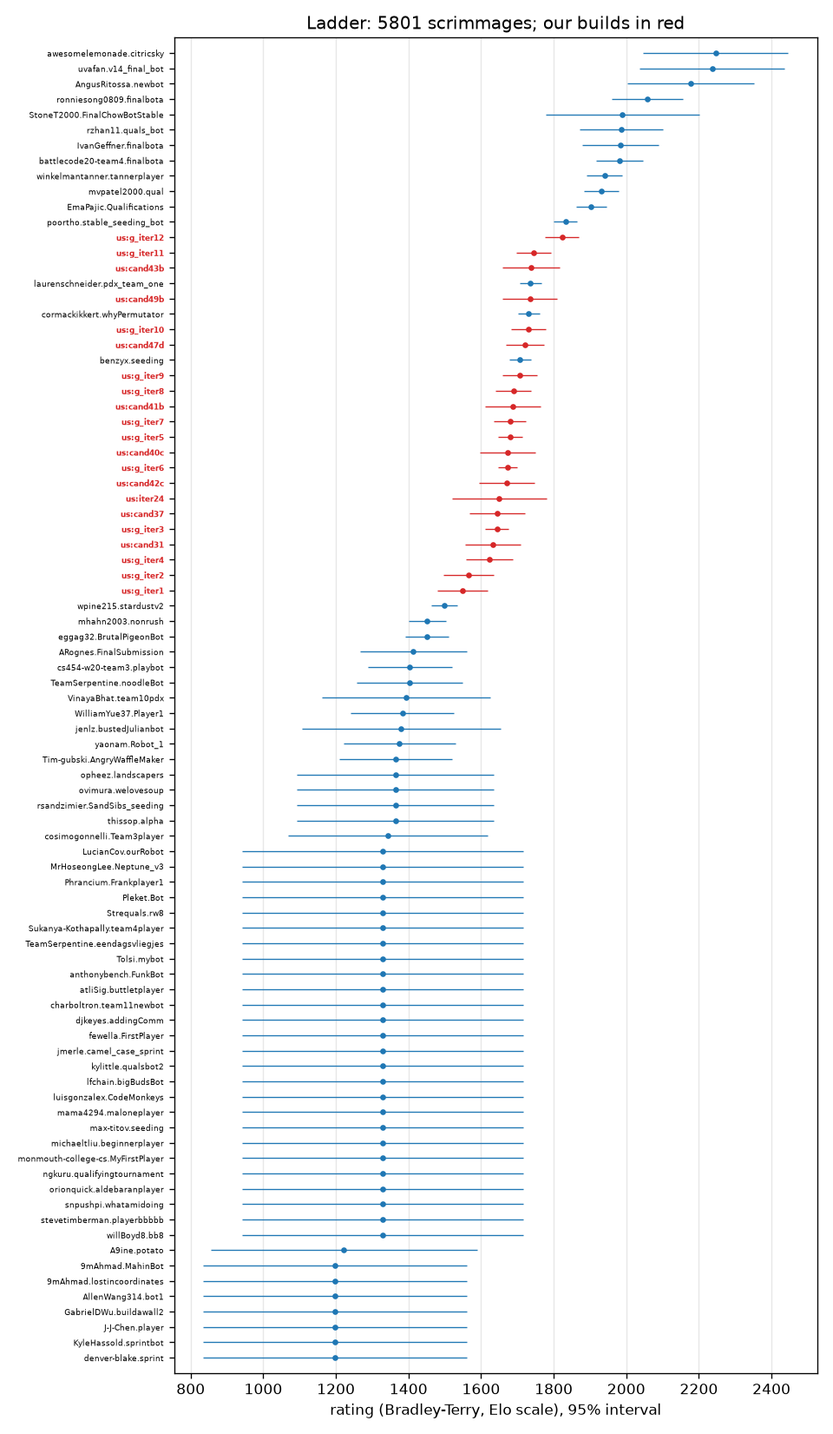
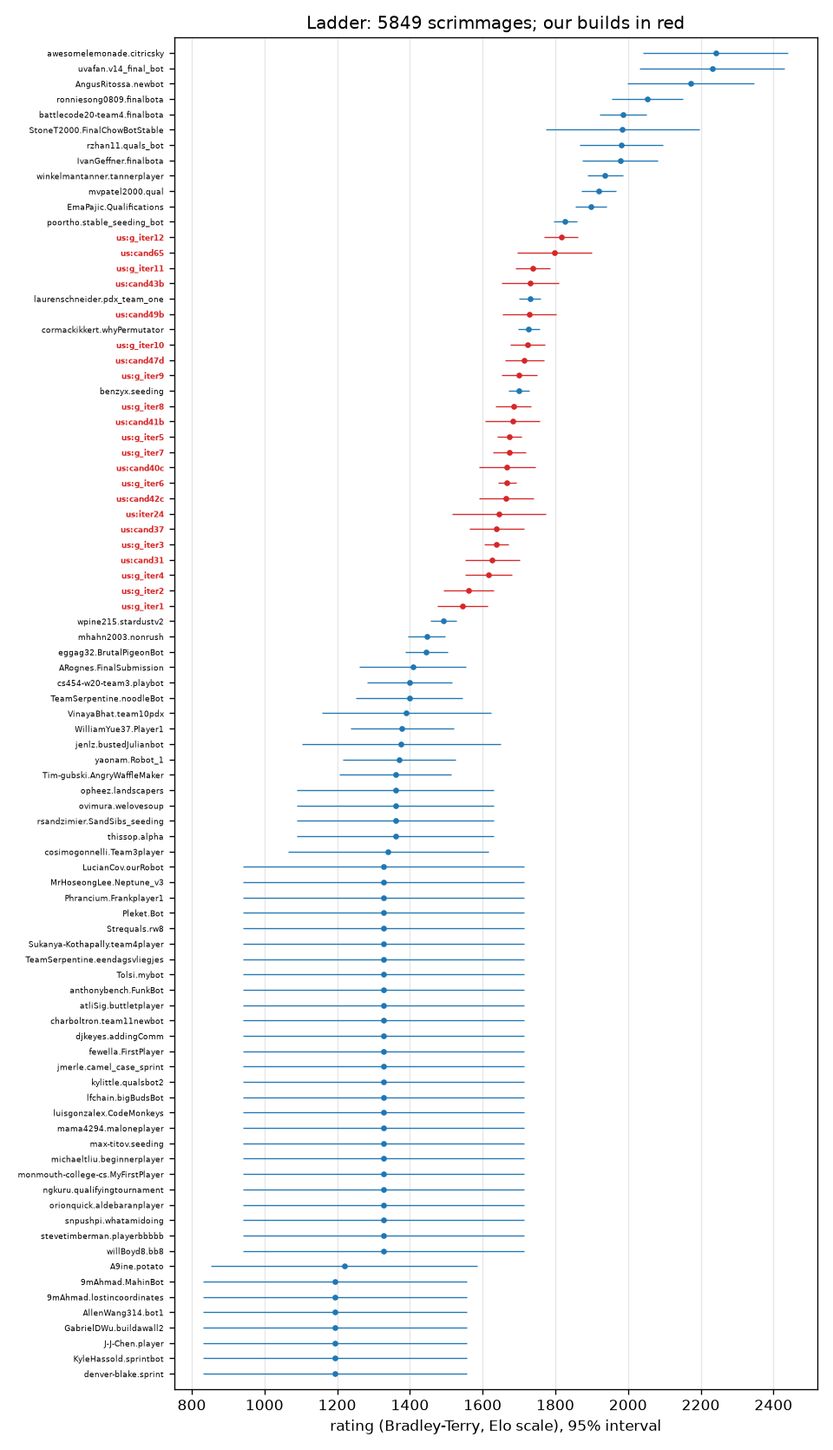
Submission block 20260926-060316-scrim-cand65 posted (cand65)
Claude-Session: https://claude.ai/code/session_015tNyF5ucwWW1mudpEQTT25

diff --git a/progress/ELO.md b/progress/ELO.md
@@ -1,118 +1,120 @@
 # Ladder
 
-5801 scrimmages (ours only), 5277 distinct (a repeated pairing with the same seed replays the same game and counts once), rated by a batch Bradley-Terry fit on the Elo scale (`tools/elolib.py`); each of our builds is its own player. 65 of 65 ladder bots met.
+5849 scrimmages (ours only), 5325 distinct (a repeated pairing with the same seed replays the same game and counts once), rated by a batch Bradley-Terry fit on the Elo scale (`tools/elolib.py`); each of our builds is its own player. 65 of 65 ladder bots met.
 
 Our builds (rating +- 95%; field score = expected score against every ladder bot, one game each):
 
 | build | rating | rank | games | record | field score |
 |---|---|---|---|---|---|
-| g_iter12 | 1823 +- 46 | 13 of 86 | 240 | 111-129 | 80.2% |
-| g_iter11 | 1744 +- 47 | 14 of 86 | 240 | 107-133 | 76.0% |
-| cand43b | 1737 +- 79 | 15 of 86 | 96 | 64-32 | 75.6% |
-| cand49b | 1734 +- 75 | 17 of 86 | 96 | 42-54 | 75.5% |
-| g_iter10 | 1731 +- 48 | 19 of 86 | 240 | 103-137 | 75.2% |
-| cand47d | 1721 +- 53 | 20 of 86 | 192 | 73-119 | 74.7% |
-| g_iter9 | 1706 +- 49 | 22 of 86 | 240 | 78-162 | 73.8% |
-| g_iter8 | 1690 +- 49 | 23 of 86 | 240 | 108-132 | 72.7% |
-| cand41b | 1688 +- 76 | 24 of 86 | 96 | 51-45 | 72.6% |
-| g_iter7 | 1680 +- 45 | 25 of 86 | 288 | 135-153 | 72.1% |
-| g_iter5 | 1679 +- 34 | 26 of 86 | 618 | 329-289 | 72.0% |
-| cand40c | 1673 +- 77 | 27 of 86 | 96 | 57-39 | 71.6% |
-| g_iter6 | 1673 +- 26 | 28 of 86 | 886 | 450-436 | 71.6% |
-| cand42c | 1671 +- 76 | 29 of 86 | 96 | 49-47 | 71.5% |
-| iter24 | 1650 +- 130 | 30 of 86 | 46 | 11-35 | 70.0% |
-| cand37 | 1645 +- 76 | 31 of 86 | 96 | 46-50 | 69.6% |
-| g_iter3 | 1644 +- 33 | 32 of 86 | 796 | 167-629 | 69.6% |
-| cand31 | 1633 +- 76 | 33 of 86 | 96 | 52-44 | 68.8% |
-| g_iter4 | 1622 +- 64 | 34 of 86 | 217 | 43-174 | 68.0% |
-| g_iter2 | 1566 +- 69 | 35 of 86 | 192 | 44-148 | 63.5% |
-| g_iter1 | 1549 +- 69 | 36 of 86 | 170 | 95-75 | 62.0% |
+| g_iter12 | 1817 +- 46 | 13 of 87 | 240 | 111-129 | 80.1% |
+| cand65 | 1798 +- 102 | 14 of 87 | 48 | 22-26 | 79.2% |
+| g_iter11 | 1738 +- 47 | 15 of 87 | 240 | 107-133 | 75.9% |
+| cand43b | 1732 +- 79 | 16 of 87 | 96 | 64-32 | 75.5% |
+| cand49b | 1728 +- 75 | 18 of 87 | 96 | 42-54 | 75.3% |
+| g_iter10 | 1724 +- 48 | 20 of 87 | 240 | 103-137 | 75.1% |
+| cand47d | 1715 +- 53 | 21 of 87 | 192 | 73-119 | 74.5% |
+| g_iter9 | 1701 +- 49 | 22 of 87 | 240 | 78-162 | 73.7% |
+| g_iter8 | 1684 +- 49 | 24 of 87 | 240 | 108-132 | 72.6% |
+| cand41b | 1682 +- 76 | 25 of 87 | 96 | 51-45 | 72.5% |
+| g_iter5 | 1674 +- 34 | 26 of 87 | 618 | 329-289 | 72.0% |
+| g_iter7 | 1674 +- 44 | 27 of 87 | 288 | 135-153 | 71.9% |
+| cand40c | 1667 +- 77 | 28 of 87 | 96 | 57-39 | 71.5% |
+| g_iter6 | 1667 +- 26 | 29 of 87 | 886 | 450-436 | 71.5% |
+| cand42c | 1665 +- 76 | 30 of 87 | 96 | 49-47 | 71.3% |
+| iter24 | 1645 +- 130 | 31 of 87 | 46 | 11-35 | 69.9% |
+| cand37 | 1639 +- 76 | 32 of 87 | 96 | 46-50 | 69.5% |
+| g_iter3 | 1638 +- 33 | 33 of 87 | 796 | 167-629 | 69.4% |
+| cand31 | 1627 +- 76 | 34 of 87 | 96 | 52-44 | 68.6% |
+| g_iter4 | 1617 +- 64 | 35 of 87 | 217 | 43-174 | 67.9% |
+| g_iter2 | 1561 +- 69 | 36 of 87 | 192 | 44-148 | 63.3% |
+| g_iter1 | 1545 +- 69 | 37 of 87 | 170 | 95-75 | 62.0% |
 
 | rank | player | rating | +- 95% | games | W-L |
 |---|---|---|---|---|---|
-| 1 | awesomelemonade.citricsky | 2246 | 200 | 103 | 101-2 |
-| 2 | uvafan.v14_final_bot | 2237 | 200 | 98 | 96-2 |
-| 3 | AngusRitossa.newbot | 2178 | 174 | 95 | 92-3 |
-| 4 | ronniesong0809.finalbota | 2059 | 98 | 127 | 114-13 |
-| 5 | StoneT2000.FinalChowBotStable | 1990 | 211 | 21 | 19-2 |
-| 6 | rzhan11.quals_bot | 1987 | 115 | 86 | 77-9 |
-| 7 | IvanGeffner.finalbota | 1983 | 105 | 101 | 90-11 |
-| 8 | battlecode20-team4.finalbota | 1981 | 65 | 226 | 195-31 |
-| 9 | winkelmantanner.tannerplayer | 1940 | 49 | 308 | 246-62 |
-| 10 | mvpatel2000.qual | 1931 | 49 | 295 | 233-62 |
-| 11 | EmaPajic.Qualifications | 1904 | 43 | 359 | 275-84 |
-| 12 | poortho.stable_seeding_bot | 1833 | 32 | 527 | 366-161 |
-| 13 | **us:g_iter12** | 1823 | 46 | 240 | 111-129 |
-| 14 | **us:g_iter11** | 1744 | 47 | 240 | 107-133 |
-| 15 | **us:cand43b** | 1737 | 79 | 96 | 64-32 |
-| 16 | laurenschneider.pdx_team_one | 1736 | 30 | 542 | 308-234 |
-| 17 | **us:cand49b** | 1734 | 75 | 96 | 42-54 |
-| 18 | cormackikkert.whyPermutator | 1731 | 30 | 535 | 300-235 |
-| 19 | **us:g_iter10** | 1731 | 48 | 240 | 103-137 |
-| 20 | **us:cand47d** | 1721 | 53 | 192 | 73-119 |
-| 21 | benzyx.seeding | 1707 | 30 | 538 | 284-254 |
-| 22 | **us:g_iter9** | 1706 | 49 | 240 | 78-162 |
-| 23 | **us:g_iter8** | 1690 | 49 | 240 | 108-132 |
-| 24 | **us:cand41b** | 1688 | 76 | 96 | 51-45 |
-| 25 | **us:g_iter7** | 1680 | 45 | 288 | 135-153 |
-| 26 | **us:g_iter5** | 1679 | 34 | 618 | 329-289 |
-| 27 | **us:cand40c** | 1673 | 77 | 96 | 57-39 |
-| 28 | **us:g_iter6** | 1673 | 26 | 886 | 450-436 |
-| 29 | **us:cand42c** | 1671 | 76 | 96 | 49-47 |
-| 30 | **us:iter24** | 1650 | 130 | 46 | 11-35 |
-| 31 | **us:cand37** | 1645 | 76 | 96 | 46-50 |
-| 32 | **us:g_iter3** | 1644 | 33 | 796 | 167-629 |
-| 33 | **us:cand31** | 1633 | 76 | 96 | 52-44 |
-| 34 | **us:g_iter4** | 1622 | 64 | 217 | 43-174 |
-| 35 | **us:g_iter2** | 1566 | 69 | 192 | 44-148 |
-| 36 | **us:g_iter1** | 1549 | 69 | 170 | 95-75 |
-| 37 | wpine215.stardustv2 | 1498 | 36 | 461 | 122-339 |
-| 38 | mhahn2003.nonrush | 1451 | 52 | 250 | 56-194 |
-| 39 | eggag32.BrutalPigeonBot | 1451 | 59 | 194 | 42-152 |
-| 40 | ARognes.FinalSubmission | 1413 | 147 | 31 | 6-25 |
-| 41 | cs454-w20-team3.playbot | 1404 | 117 | 50 | 10-40 |
-| 42 | TeamSerpentine.noodleBot | 1403 | 146 | 32 | 6-26 |
-| 43 | VinayaBhat.team10pdx | 1394 | 233 | 9 | 2-7 |
-| 44 | WilliamYue37.Player1 | 1383 | 142 | 40 | 6-34 |
-| 45 | jenlz.bustedJulianbot | 1380 | 274 | 8 | 1-7 |
-| 46 | yaonam.Robot_1 | 1375 | 155 | 33 | 5-28 |
-| 47 | Tim-gubski.AngryWaffleMaker | 1365 | 155 | 32 | 5-27 |
-| 48 | opheez.landscapers | 1364 | 271 | 9 | 1-8 |
-| 49 | ovimura.welovesoup | 1364 | 271 | 9 | 1-8 |
-| 50 | rsandzimier.SandSibs_seeding | 1364 | 271 | 9 | 1-8 |
-| 51 | thissop.alpha | 1364 | 271 | 9 | 1-8 |
-| 52 | cosimogonnelli.Team3player | 1343 | 275 | 7 | 1-6 |
-| 53 | LucianCov.ourRobot | 1329 | 387 | 3 | 0-3 |
-| 54 | MrHoseongLee.Neptune_v3 | 1329 | 387 | 3 | 0-3 |
-| 55 | Phrancium.Frankplayer1 | 1329 | 387 | 3 | 0-3 |
-| 56 | Pleket.Bot | 1329 | 387 | 3 | 0-3 |
-| 57 | Strequals.rw8 | 1329 | 387 | 3 | 0-3 |
-| 58 | Sukanya-Kothapally.team4player | 1329 | 387 | 3 | 0-3 |
-| 59 | TeamSerpentine.eendagsvliegjes | 1329 | 387 | 3 | 0-3 |
-| 60 | Tolsi.mybot | 1329 | 387 | 3 | 0-3 |
-| 61 | anthonybench.FunkBot | 1329 | 387 | 3 | 0-3 |
-| 62 | atliSig.buttletplayer | 1329 | 387 | 3 | 0-3 |
-| 63 | charboltron.team11newbot | 1329 | 387 | 3 | 0-3 |
-| 64 | djkeyes.addingComm | 1329 | 387 | 3 | 0-3 |
-| 65 | fewella.FirstPlayer | 1329 | 387 | 3 | 0-3 |
-| 66 | jmerle.camel_case_sprint | 1329 | 387 | 3 | 0-3 |
-| 67 | kylittle.qualsbot2 | 1329 | 387 | 3 | 0-3 |
-| 68 | lfchain.bigBudsBot | 1329 | 387 | 3 | 0-3 |
-| 69 | luisgonzalex.CodeMonkeys | 1329 | 387 | 3 | 0-3 |
-| 70 | mama4294.maloneplayer | 1329 | 387 | 3 | 0-3 |
-| 71 | max-titov.seeding | 1329 | 387 | 3 | 0-3 |
-| 72 | michaeltliu.beginnerplayer | 1329 | 387 | 3 | 0-3 |
-| 73 | monmouth-college-cs.MyFirstPlayer | 1329 | 387 | 3 | 0-3 |
-| 74 | ngkuru.qualifyingtournament | 1329 | 387 | 3 | 0-3 |
-| 75 | orionquick.aldebaranplayer | 1329 | 387 | 3 | 0-3 |
-| 76 | snpushpi.whatamidoing | 1329 | 387 | 3 | 0-3 |
-| 77 | stevetimberman.playerbbbbb | 1329 | 387 | 3 | 0-3 |
-| 78 | willBoyd8.bb8 | 1329 | 387 | 3 | 0-3 |
-| 79 | A9ine.potato | 1222 | 366 | 6 | 0-6 |
-| 80 | 9mAhmad.MahinBot | 1198 | 363 | 7 | 0-7 |
-| 81 | 9mAhmad.lostincoordinates | 1198 | 363 | 7 | 0-7 |
-| 82 | AllenWang314.bot1 | 1198 | 363 | 7 | 0-7 |
-| 83 | GabrielDWu.buildawall2 | 1198 | 363 | 7 | 0-7 |
-| 84 | J-J-Chen.player | 1198 | 363 | 7 | 0-7 |
-| 85 | KyleHassold.sprintbot | 1198 | 363 | 7 | 0-7 |
-| 86 | denver-blake.sprint | 1198 | 363 | 7 | 0-7 |
+| 1 | awesomelemonade.citricsky | 2241 | 200 | 103 | 101-2 |
+| 2 | uvafan.v14_final_bot | 2232 | 200 | 98 | 96-2 |
+| 3 | AngusRitossa.newbot | 2172 | 174 | 95 | 92-3 |
+| 4 | ronniesong0809.finalbota | 2053 | 98 | 127 | 114-13 |
+| 5 | battlecode20-team4.finalbota | 1986 | 65 | 232 | 201-31 |
+| 6 | StoneT2000.FinalChowBotStable | 1985 | 211 | 21 | 19-2 |
+| 7 | rzhan11.quals_bot | 1981 | 115 | 86 | 77-9 |
+| 8 | IvanGeffner.finalbota | 1978 | 105 | 101 | 90-11 |
+| 9 | winkelmantanner.tannerplayer | 1937 | 48 | 314 | 251-63 |
+| 10 | mvpatel2000.qual | 1918 | 48 | 301 | 235-66 |
+| 11 | EmaPajic.Qualifications | 1898 | 42 | 365 | 279-86 |
+| 12 | poortho.stable_seeding_bot | 1827 | 32 | 533 | 369-164 |
+| 13 | **us:g_iter12** | 1817 | 46 | 240 | 111-129 |
+| 14 | **us:cand65** | 1798 | 102 | 48 | 22-26 |
+| 15 | **us:g_iter11** | 1738 | 47 | 240 | 107-133 |
+| 16 | **us:cand43b** | 1732 | 79 | 96 | 64-32 |
+| 17 | laurenschneider.pdx_team_one | 1730 | 30 | 548 | 310-238 |
+| 18 | **us:cand49b** | 1728 | 75 | 96 | 42-54 |
+| 19 | cormackikkert.whyPermutator | 1726 | 30 | 541 | 303-238 |
+| 20 | **us:g_iter10** | 1724 | 48 | 240 | 103-137 |
+| 21 | **us:cand47d** | 1715 | 53 | 192 | 73-119 |
+| 22 | **us:g_iter9** | 1701 | 49 | 240 | 78-162 |
+| 23 | benzyx.seeding | 1700 | 29 | 544 | 285-259 |
+| 24 | **us:g_iter8** | 1684 | 49 | 240 | 108-132 |
+| 25 | **us:cand41b** | 1682 | 76 | 96 | 51-45 |
+| 26 | **us:g_iter5** | 1674 | 34 | 618 | 329-289 |
+| 27 | **us:g_iter7** | 1674 | 44 | 288 | 135-153 |
+| 28 | **us:cand40c** | 1667 | 77 | 96 | 57-39 |
+| 29 | **us:g_iter6** | 1667 | 26 | 886 | 450-436 |
+| 30 | **us:cand42c** | 1665 | 76 | 96 | 49-47 |
+| 31 | **us:iter24** | 1645 | 130 | 46 | 11-35 |
+| 32 | **us:cand37** | 1639 | 76 | 96 | 46-50 |
+| 33 | **us:g_iter3** | 1638 | 33 | 796 | 167-629 |
+| 34 | **us:cand31** | 1627 | 76 | 96 | 52-44 |
+| 35 | **us:g_iter4** | 1617 | 64 | 217 | 43-174 |
+| 36 | **us:g_iter2** | 1561 | 69 | 192 | 44-148 |
+| 37 | **us:g_iter1** | 1545 | 69 | 170 | 95-75 |
+| 38 | wpine215.stardustv2 | 1493 | 36 | 461 | 122-339 |
+| 39 | mhahn2003.nonrush | 1446 | 52 | 250 | 56-194 |
+| 40 | eggag32.BrutalPigeonBot | 1445 | 59 | 194 | 42-152 |
+| 41 | ARognes.FinalSubmission | 1408 | 147 | 31 | 6-25 |
+| 42 | cs454-w20-team3.playbot | 1399 | 117 | 50 | 10-40 |
+| 43 | TeamSerpentine.noodleBot | 1398 | 146 | 32 | 6-26 |
+| 44 | VinayaBhat.team10pdx | 1390 | 232 | 9 | 2-7 |
+| 45 | WilliamYue37.Player1 | 1378 | 142 | 40 | 6-34 |
+| 46 | jenlz.bustedJulianbot | 1376 | 274 | 8 | 1-7 |
+| 47 | yaonam.Robot_1 | 1371 | 155 | 33 | 5-28 |
+| 48 | Tim-gubski.AngryWaffleMaker | 1360 | 155 | 32 | 5-27 |
+| 49 | opheez.landscapers | 1360 | 270 | 9 | 1-8 |
+| 50 | ovimura.welovesoup | 1360 | 270 | 9 | 1-8 |
+| 51 | rsandzimier.SandSibs_seeding | 1360 | 270 | 9 | 1-8 |
+| 52 | thissop.alpha | 1360 | 270 | 9 | 1-8 |
+| 53 | cosimogonnelli.Team3player | 1340 | 275 | 7 | 1-6 |
+| 54 | LucianCov.ourRobot | 1327 | 386 | 3 | 0-3 |
+| 55 | MrHoseongLee.Neptune_v3 | 1327 | 386 | 3 | 0-3 |
+| 56 | Phrancium.Frankplayer1 | 1327 | 386 | 3 | 0-3 |
+| 57 | Pleket.Bot | 1327 | 386 | 3 | 0-3 |
+| 58 | Strequals.rw8 | 1327 | 386 | 3 | 0-3 |
+| 59 | Sukanya-Kothapally.team4player | 1327 | 386 | 3 | 0-3 |
+| 60 | TeamSerpentine.eendagsvliegjes | 1327 | 386 | 3 | 0-3 |
+| 61 | Tolsi.mybot | 1327 | 386 | 3 | 0-3 |
+| 62 | anthonybench.FunkBot | 1327 | 386 | 3 | 0-3 |
+| 63 | atliSig.buttletplayer | 1327 | 386 | 3 | 0-3 |
+| 64 | charboltron.team11newbot | 1327 | 386 | 3 | 0-3 |
+| 65 | djkeyes.addingComm | 1327 | 386 | 3 | 0-3 |
+| 66 | fewella.FirstPlayer | 1327 | 386 | 3 | 0-3 |
+| 67 | jmerle.camel_case_sprint | 1327 | 386 | 3 | 0-3 |
+| 68 | kylittle.qualsbot2 | 1327 | 386 | 3 | 0-3 |
+| 69 | lfchain.bigBudsBot | 1327 | 386 | 3 | 0-3 |
+| 70 | luisgonzalex.CodeMonkeys | 1327 | 386 | 3 | 0-3 |
+| 71 | mama4294.maloneplayer | 1327 | 386 | 3 | 0-3 |
+| 72 | max-titov.seeding | 1327 | 386 | 3 | 0-3 |
+| 73 | michaeltliu.beginnerplayer | 1327 | 386 | 3 | 0-3 |
+| 74 | monmouth-college-cs.MyFirstPlayer | 1327 | 386 | 3 | 0-3 |
+| 75 | ngkuru.qualifyingtournament | 1327 | 386 | 3 | 0-3 |
+| 76 | orionquick.aldebaranplayer | 1327 | 386 | 3 | 0-3 |
+| 77 | snpushpi.whatamidoing | 1327 | 386 | 3 | 0-3 |
+| 78 | stevetimberman.playerbbbbb | 1327 | 386 | 3 | 0-3 |
+| 79 | willBoyd8.bb8 | 1327 | 386 | 3 | 0-3 |
+| 80 | A9ine.potato | 1219 | 366 | 6 | 0-6 |
+| 81 | 9mAhmad.MahinBot | 1195 | 363 | 7 | 0-7 |
+| 82 | 9mAhmad.lostincoordinates | 1195 | 363 | 7 | 0-7 |
+| 83 | AllenWang314.bot1 | 1195 | 363 | 7 | 0-7 |
+| 84 | GabrielDWu.buildawall2 | 1195 | 363 | 7 | 0-7 |
+| 85 | J-J-Chen.player | 1195 | 363 | 7 | 0-7 |
+| 86 | KyleHassold.sprintbot | 1195 | 363 | 7 | 0-7 |
+| 87 | denver-blake.sprint | 1195 | 363 | 7 | 0-7 |

diff --git a/progress/ONSET.md b/progress/ONSET.md
@@ -1,6 +1,6 @@
 # Which metric starts predicting the result first
 
-41 games, 25 wins. Noise floor about 0.31; a correlation inside that band is not evidence.
+39 games, 21 wins. Noise floor about 0.32; a correlation inside that band is not evidence.
 
 Every metric is oriented so **higher is better for us**, so a positive correlation always means
 "this being better goes with winning". `~avg` is the running mean over all rounds so far rather than
@@ -12,46 +12,46 @@ See `progress/METRICS.md` for how each quantity is computed.
 
 | onset | anti | metric | peak corr | r100 | r200 | r300 | r400 | r600 | r900 |
 |---|---|---|---|---|---|---|---|---|---|
-| r150 | - | died (us-them) [inverted] | +0.40 | +0.16 | +0.29 | +0.17 | +0.16 | +0.19 | +0.32 |
-| r150 | - | died (us-them) [inverted] ~avg | +0.37 | +0.12 | +0.32 | +0.31 | +0.24 | +0.19 | +0.35 |
-| r150 | - | landscapers (us-them) | +0.72 | +0.09 | +0.35 | +0.13 | +0.11 | +0.37 | +0.66 |
-| r150 | - | landscapers (us-them) ~avg | +0.69 | +0.09 | +0.35 | +0.22 | +0.18 | +0.27 | +0.47 |
-| r150 | - | pickups (us-them) | +0.42 | +0.13 | +0.38 | +0.32 | +0.22 | +0.22 | +0.39 |
-| r150 | - | pickups (us-them) ~avg | +0.44 | +0.13 | +0.39 | +0.39 | +0.34 | +0.24 | +0.44 |
-| r150 | - | robots (us-them) | +0.68 | +0.21 | +0.39 | +0.34 | +0.34 | +0.40 | +0.53 |
-| r150 | - | robots (us-them) ~avg | +0.65 | +0.16 | +0.35 | +0.37 | +0.37 | +0.41 | +0.52 |
-| r150 | - | units (us-them) | +0.62 | +0.22 | +0.40 | +0.24 | +0.24 | +0.35 | +0.49 |
-| r150 | - | units (us-them) ~avg | +0.60 | +0.15 | +0.36 | +0.33 | +0.31 | +0.35 | +0.49 |
-| r150 | - | worth (us-them) | +0.64 | +0.18 | +0.44 | +0.39 | +0.38 | +0.38 | +0.44 |
-| r150 | - | worth (us-them) ~avg | +0.63 | +0.23 | +0.39 | +0.39 | +0.41 | +0.41 | +0.46 |
-| r200 | - | digs (us-them) | +0.72 | +0.28 | +0.33 | +0.32 | +0.34 | +0.35 | +0.47 |
-| r200 | - | digs (us-them) ~avg | +0.56 | +0.28 | +0.30 | +0.30 | +0.33 | +0.34 | +0.42 |
-| r200 | - | mines (us-them) | +0.35 | +0.20 | +0.31 | +0.33 | +0.32 | +0.26 | +0.30 |
-| r200 | - | mines (us-them) ~avg | +0.33 | +0.24 | +0.31 | +0.30 | +0.33 | +0.32 | +0.33 |
-| r300 | - | drones (us-them) | +0.32 | +0.24 | +0.24 | +0.32 | +0.28 | +0.03 | +0.06 |
-| r300 | - | drones (us-them) ~avg | +0.32 | +0.24 | +0.27 | +0.32 | +0.32 | +0.21 | +0.17 |
-| r300 | - | vaporators (us-them) | +0.55 | -0.03 | +0.13 | +0.33 | +0.38 | +0.31 | +0.40 |
-| r400 | - | vaporators (us-them) ~avg | +0.57 | -0.03 | +0.02 | +0.21 | +0.32 | +0.34 | +0.38 |
-| r450 | - | spawned (us-them) | +0.61 | +0.20 | +0.27 | +0.26 | +0.29 | +0.34 | +0.46 |
-| r450 | - | spawned (us-them) ~avg | +0.56 | +0.15 | +0.27 | +0.26 | +0.28 | +0.34 | +0.41 |
-| r550 | - | netguns (us-them) | +0.51 | . | -0.10 | -0.07 | +0.05 | +0.38 | +0.50 |
-| r600 | - | dirtDeps (us-them) | +0.71 | +0.02 | +0.19 | +0.22 | +0.28 | +0.32 | +0.45 |
-| r700 | - | dirtDeps (us-them) ~avg | +0.54 | +0.02 | +0.13 | +0.15 | +0.23 | +0.28 | +0.38 |
-| r750 | - | netguns (us-them) ~avg | +0.41 | . | -0.10 | -0.14 | -0.04 | +0.17 | +0.38 |
-| r900 | - | moves (us-them) | +0.43 | +0.12 | +0.08 | +0.14 | +0.07 | +0.14 | +0.30 |
-| r1100 | - | moves (us-them) ~avg | +0.33 | +0.06 | +0.09 | +0.17 | +0.12 | +0.12 | +0.23 |
-| - | r850 | aba (us-them) [inverted] | -0.52 | +0.04 | +0.22 | +0.13 | -0.08 | -0.17 | -0.39 |
-| - | r1000 | aba (us-them) [inverted] ~avg | -0.41 | +0.07 | +0.21 | +0.17 | +0.02 | -0.09 | -0.25 |
-| - | - | cov (us-them) | -0.28 | -0.23 | -0.28 | -0.16 | -0.09 | +0.11 | +0.12 |
-| - | r200 | cov (us-them) ~avg | -0.31 | -0.26 | -0.31 | -0.28 | -0.21 | -0.06 | +0.05 |
+| r50 | - | aba (us-them) [inverted] ~avg | +0.30 | +0.25 | +0.03 | +0.04 | +0.01 | -0.08 | -0.00 |
+| r50 | - | units (us-them) | +0.46 | +0.32 | +0.29 | +0.29 | +0.35 | +0.39 | +0.16 |
+| r50 | - | units (us-them) ~avg | +0.47 | +0.35 | +0.36 | +0.37 | +0.39 | +0.46 | +0.43 |
+| r100 | - | digs (us-them) ~avg | +0.31 | +0.31 | +0.15 | +0.16 | +0.14 | +0.19 | +0.30 |
+| r100 | - | hqBuried (us-them) [inverted] | +0.34 | +0.34 | -0.01 | +0.23 | . | . | . |
+| r100 | - | hqBuried (us-them) [inverted] ~avg | +0.34 | +0.34 | -0.08 | -0.01 | -0.20 | -0.20 | -0.19 |
+| r100 | - | landscapers (us-them) | +0.44 | +0.44 | +0.34 | +0.18 | +0.23 | +0.36 | +0.13 |
+| r100 | - | landscapers (us-them) ~avg | +0.51 | +0.47 | +0.32 | +0.33 | +0.31 | +0.43 | +0.42 |
+| r100 | - | robots (us-them) ~avg | +0.49 | +0.32 | +0.40 | +0.44 | +0.46 | +0.49 | +0.40 |
+| r100 | - | spawned (us-them) ~avg | +0.52 | +0.32 | +0.40 | +0.44 | +0.47 | +0.52 | +0.43 |
+| r150 | - | worth (us-them) | +0.49 | +0.21 | +0.47 | +0.48 | +0.39 | +0.28 | +0.23 |
+| r150 | - | worth (us-them) ~avg | +0.50 | +0.19 | +0.46 | +0.50 | +0.48 | +0.42 | +0.32 |
+| r200 | - | mines (us-them) | +0.46 | +0.23 | +0.41 | +0.45 | +0.36 | +0.29 | +0.23 |
+| r200 | - | mines (us-them) ~avg | +0.47 | +0.22 | +0.39 | +0.47 | +0.46 | +0.42 | +0.36 |
+| r200 | - | robots (us-them) | +0.47 | +0.30 | +0.37 | +0.42 | +0.44 | +0.38 | +0.23 |
+| r200 | - | spawned (us-them) | +0.49 | +0.30 | +0.36 | +0.42 | +0.47 | +0.40 | +0.26 |
+| r350 | - | pickups (us-them) ~avg | +0.32 | -0.13 | +0.26 | +0.24 | +0.31 | +0.27 | +0.26 |
+| r800 | - | digs (us-them) | +0.32 | +0.31 | +0.15 | +0.12 | +0.11 | +0.23 | +0.32 |
+| r900 | - | dirtDeps (us-them) | +0.30 | +0.29 | +0.12 | +0.10 | +0.10 | +0.21 | +0.30 |
+| r950 | - | aba (us-them) [inverted] | +0.33 | +0.22 | -0.02 | -0.02 | -0.03 | -0.16 | +0.14 |
+| r1150 | - | pickups (us-them) | +0.31 | -0.13 | +0.21 | +0.17 | +0.20 | +0.24 | +0.29 |
+| - | - | cov (us-them) | +0.17 | +0.04 | +0.12 | +0.04 | +0.06 | +0.17 | +0.10 |
+| - | - | cov (us-them) ~avg | +0.17 | +0.02 | -0.02 | -0.04 | +0.03 | +0.09 | +0.11 |
+| - | - | died (us-them) [inverted] | +0.22 | +0.01 | +0.10 | +0.02 | -0.06 | -0.09 | -0.05 |
+| - | - | died (us-them) [inverted] ~avg | -0.15 | +0.01 | +0.12 | +0.04 | +0.02 | -0.06 | -0.09 |
+| - | - | dirtDeps (us-them) ~avg | +0.29 | +0.29 | +0.13 | +0.14 | +0.14 | +0.18 | +0.29 |
+| - | - | drones (us-them) | +0.28 | +0.01 | +0.17 | +0.28 | +0.03 | +0.04 | -0.02 |
+| - | - | drones (us-them) ~avg | +0.18 | +0.01 | +0.16 | +0.18 | +0.15 | +0.14 | +0.09 |
 | - | - | drowned (us-them) [inverted] | . | . | . | . | . | . | . |
 | - | - | drowned (us-them) [inverted] ~avg | . | . | . | . | . | . | . |
-| - | - | hqBuried (us-them) [inverted] | +0.22 | +0.22 | +0.16 | +0.20 | +0.00 | . | . |
-| - | - | hqBuried (us-them) [inverted] ~avg | -0.29 | +0.22 | +0.08 | -0.29 | -0.28 | -0.28 | -0.27 |
-| - | - | miners (us-them) | +0.28 | +0.10 | +0.15 | +0.17 | +0.17 | +0.20 | +0.25 |
-| - | - | miners (us-them) ~avg | +0.26 | +0.07 | +0.13 | +0.23 | +0.22 | +0.21 | +0.26 |
-| - | r450 | soup (us-them) | +0.47 | -0.09 | +0.24 | -0.13 | -0.14 | -0.27 | -0.44 |
-| - | r600 | soup (us-them) ~avg | +0.47 | +0.09 | +0.21 | +0.10 | -0.01 | -0.31 | -0.35 |
+| - | - | miners (us-them) | +0.32 | +0.04 | +0.10 | +0.19 | +0.28 | +0.26 | +0.18 |
+| - | - | miners (us-them) ~avg | +0.32 | +0.15 | +0.23 | +0.22 | +0.26 | +0.28 | +0.23 |
+| - | - | moves (us-them) | -0.35 | -0.35 | +0.01 | -0.01 | +0.07 | +0.17 | +0.11 |
+| - | r100 | moves (us-them) ~avg | -0.43 | -0.43 | -0.09 | -0.05 | +0.02 | +0.13 | +0.15 |
+| - | - | netguns (us-them) | +0.26 | . | +0.15 | +0.19 | +0.24 | +0.23 | +0.21 |
+| - | - | netguns (us-them) ~avg | +0.26 | . | +0.15 | +0.17 | +0.20 | +0.26 | +0.22 |
+| - | - | soup (us-them) | -0.32 | -0.32 | -0.13 | +0.23 | +0.14 | +0.00 | +0.08 |
+| - | - | soup (us-them) ~avg | -0.34 | -0.34 | -0.19 | -0.10 | +0.00 | -0.04 | +0.02 |
+| - | - | vaporators (us-them) | +0.29 | +0.01 | +0.13 | +0.26 | +0.19 | +0.16 | +0.19 |
+| - | - | vaporators (us-them) ~avg | +0.27 | +0.01 | +0.13 | +0.20 | +0.21 | +0.20 | +0.19 |
 
 **Reading it.** Earliest onset is the first place to look: temporal precedence is the one causal hint a
 correlation can honestly give. Late-onset metrics are usually the scoreboard rather than the cause -- by then

diff --git a/BENCHMARK.md b/BENCHMARK.md
@@ -62,7 +62,7 @@ build with at least 200 recorded games: a candidate's short ladder arm never re-
 | `EmaPajic.Mark3` | EmaPajic_Battlecode-2020 (c060a22) | - | - | untested |  |
 | `EmaPajic.Mark4` | EmaPajic_Battlecode-2020 (c060a22) | - | - | untested |  |
 | `EmaPajic.Mark5` | EmaPajic_Battlecode-2020 (c060a22) | - | - | untested |  |
-| `EmaPajic.Qualifications` | EmaPajic_Battlecode-2020 (c060a22) | 50 | 30 | peer | 20 0 21 0 50 0 17 38 8 25 10 17 20 33 33 30 20 50 |
+| `EmaPajic.Qualifications` | EmaPajic_Battlecode-2020 (c060a22) | 50 | 30 | peer | 20 0 21 0 50 0 17 38 8 25 10 17 20 33 33 30 20 50 33 |
 | `EmaPajic.SeedingBot` | EmaPajic_Battlecode-2020 (c060a22) | - | - | untested |  |
 | `GabrielDWu.basicbot` | GabrielDWu_blezers-battlecode2020 (c0283f8) | - | - | untested |  |
 | `GabrielDWu.blezerbot` | GabrielDWu_blezers-battlecode2020 (c0283f8) | - | - | untested |  |
@@ -160,7 +160,7 @@ build with at least 200 recorded games: a candidate's short ladder arm never re-
 | `arya-k.donothing` | arya-k_bc20 (1b969b3) | - | - | untested |  |
 | `atliSig.buttletplayer` | atliSig_battlecode20-scaffold (b64b063) | 100 | 2 | peer(>90 once) | 100 100 |
 | `awesomelemonade.citricsky` | awesomelemonade_Battlecode2020 (7a50e66) | 0 | 11 | locked | 0 0 3 0 0 0 |
-| `battlecode20-team4.finalbota` | battlecode20-team4_battlecode20-scaffold (1cee065) | 10 | 30 | locked | 0 8 23 24 25 18 14 7 10 8 |
+| `battlecode20-team4.finalbota` | battlecode20-team4_battlecode20-scaffold (1cee065) | 10 | 30 | locked | 0 8 23 24 25 18 14 7 10 8 0 |
 | `battlecode20-team4.team4enemy` | battlecode20-team4_battlecode20-scaffold (1cee065) | - | - | untested |  |
 | `battlecode20-team4.team4player` | battlecode20-team4_battlecode20-scaffold (1cee065) | - | - | untested |  |
 | `battlecode.lectureplayer` | battlecode_lectureplayer (2836576) | - | - | untested |  |
@@ -171,11 +171,11 @@ build with at least 200 recorded games: a candidate's short ladder arm never re-
 | `benzyx.espada` | benzyx_bc20-waterloo (05df2e7) | - | - | untested |  |
 | `benzyx.firstplayer` | benzyx_bc20-waterloo (05df2e7) | - | - | untested |  |
 | `benzyx.kurobot` | benzyx_bc20-waterloo (05df2e7) | - | - | untested |  |
-| `benzyx.seeding` | benzyx_bc20-waterloo (05df2e7) | 77 | 30 | peer | 25 17 50 40 25 45 41 33 36 33 33 58 50 25 58 53 50 50 63 63 77 |
+| `benzyx.seeding` | benzyx_bc20-waterloo (05df2e7) | 77 | 30 | peer | 25 17 50 40 25 45 41 33 36 33 33 58 50 25 58 53 50 50 63 63 77 83 |
 | `benzyx.tortuga` | benzyx_bc20-waterloo (05df2e7) | - | - | untested |  |
 | `charboltron.master_player` | charboltron_pdx_battlecode_2020_team_11 (f78f1e3) | - | - | untested |  |
 | `charboltron.team11newbot` | charboltron_pdx_battlecode_2020_team_11 (f78f1e3) | 100 | 2 | peer(>90 once) | 100 100 |
-| `cormackikkert.whyPermutator` | cormackikkert_battlecode2020 (4d230c4) | 73 | 30 | peer | 25 17 38 40 25 42 45 25 28 25 42 33 47 58 42 50 38 75 60 50 73 |
+| `cormackikkert.whyPermutator` | cormackikkert_battlecode2020 (4d230c4) | 73 | 30 | peer | 25 17 38 40 25 42 45 25 28 25 42 33 47 58 42 50 38 75 60 50 73 50 |
 | `cormackikkert.whyPermutatorOld` | cormackikkert_battlecode2020 (4d230c4) | - | - | untested |  |
 | `cosimogonnelli.Team3player` | cosimogonnelli_CS454-554-SE (d7dc657) | 100 | 2 | peer(>90 once) | 80 100 |
 | `cs454-w20-team3.oldbot` | cs454-w20-team3_team3-bot (502c334) | - | - | untested |  |
@@ -203,7 +203,7 @@ build with at least 200 recorded games: a candidate's short ladder arm never re-
 | `kylittle.deliriumv1` | kylittle_DeliriumBattlecode (17a94dd) | - | - | untested |  |
 | `kylittle.qualsbot` | kylittle_DeliriumBattlecode (17a94dd) | - | - | untested |  |
 | `kylittle.qualsbot2` | kylittle_DeliriumBattlecode (17a94dd) | 100 | 2 | peer(>90 once) | 100 100 |
-| `laurenschneider.pdx_team_one` | laurenschneider_battlecode20-PDXTeamOne (2965376) | 73 | 30 | peer | 0 50 39 14 0 47 38 0 50 50 50 42 47 42 50 47 50 42 50 47 73 |
+| `laurenschneider.pdx_team_one` | laurenschneider_battlecode20-PDXTeamOne (2965376) | 73 | 30 | peer | 0 50 39 14 0 47 38 0 50 50 50 42 47 42 50 47 50 42 50 47 73 67 |
 | `lfchain.bigBudsBot` | lfchain_Battlecode2020 (b026153) | 100 | 2 | peer(>90 once) | 100 100 |
 | `lfchain.fBot` | lfchain_Battlecode2020 (b026153) | - | - | untested |  |
 | `lfchain.jBot` | lfchain_Battlecode2020 (b026153) | - | - | untested |  |
@@ -246,7 +246,7 @@ build with at least 200 recorded games: a candidate's short ladder arm never re-
 | `mvpatel2000.oldhades` | mvpatel2000_Battlecode2020 (554943e) | - | - | untested |  |
 | `mvpatel2000.poseidon` | mvpatel2000_Battlecode2020 (554943e) | - | - | untested |  |
 | `mvpatel2000.quail` | mvpatel2000_Battlecode2020 (554943e) | - | - | untested |  |
-| `mvpatel2000.qual` | mvpatel2000_Battlecode2020 (554943e) | 23 | 30 | target | 0 8 24 13 67 12 0 12 20 46 8 23 30 23 |
+| `mvpatel2000.qual` | mvpatel2000_Battlecode2020 (554943e) | 23 | 30 | target | 0 8 24 13 67 12 0 12 20 46 8 23 30 23 67 |
 | `mvpatel2000.qualAttacc` | mvpatel2000_Battlecode2020 (554943e) | - | - | untested |  |
 | `mvpatel2000.qualNoAtacc` | mvpatel2000_Battlecode2020 (554943e) | - | - | untested |  |
 | `mvpatel2000.seeding` | mvpatel2000_Battlecode2020 (554943e) | - | - | untested |  |
@@ -280,7 +280,7 @@ build with at least 200 recorded games: a candidate's short ladder arm never re-
 | `poortho.rush` | poortho_battlecode-2020 (ebbd61e) | - | - | untested |  |
 | `poortho.rush_bot` | poortho_battlecode-2020 (ebbd61e) | - | - | untested |  |
 | `poortho.stable_miner1` | poortho_battlecode-2020 (ebbd61e) | - | - | untested |  |
-| `poortho.stable_seeding_bot` | poortho_battlecode-2020 (ebbd61e) | 30 | 30 | target | 0 17 27 31 0 30 31 50 39 33 25 33 33 17 42 37 33 17 27 30 30 |
+| `poortho.stable_seeding_bot` | poortho_battlecode-2020 (ebbd61e) | 30 | 30 | target | 0 17 27 31 0 30 31 50 39 33 25 33 33 17 42 37 33 17 27 30 30 50 |
 | `ps789.dennisTestPlayer` | ps789_AZBattlecode (f1d54ab) | - | - | untested |  |
 | `ps789.phillipTestPlayer` | ps789_AZBattlecode (f1d54ab) | - | - | untested |  |
 | `ronniesong0809.finalbota` | ronniesong0809_battlecode20-RADS (1cee065) | 7 | 30 | locked | 0 18 15 7 0 0 7 |
@@ -326,7 +326,7 @@ build with at least 200 recorded games: a candidate's short ladder arm never re-
 | `willBoyd8.droideka` | willBoyd8_BattleDroid (4b1d4ad) | - | - | untested |  |
 | `willBoyd8.empire` | willBoyd8_BattleDroid (4b1d4ad) | - | - | untested |  |
 | `willBoyd8.mouse` | willBoyd8_BattleDroid (4b1d4ad) | - | - | untested |  |
-| `winkelmantanner.tannerplayer` | winkelmantanner_battlecode2020_the-levee-builders (7f49f11) | 37 | 30 | target | 0 25 15 23 0 36 12 8 23 17 25 17 27 37 |
+| `winkelmantanner.tannerplayer` | winkelmantanner_battlecode2020_the-levee-builders (7f49f11) | 37 | 30 | target | 0 25 15 23 0 36 12 8 23 17 25 17 27 37 17 |
 | `wpine215.stardustv1` | wpine215_battlecode (d570d57) | - | - | untested |  |
 | `wpine215.stardustv2` | wpine215_battlecode (d570d57) | 90 | 30 | peer | 0 30 50 65 100 70 77 58 78 83 67 75 87 100 83 67 100 73 90 |
 | `yaonam.Robot_1` | yaonam_battlecode2020 (bb363f5) | 83 | 12 | peer | 62 100 83 100 |
